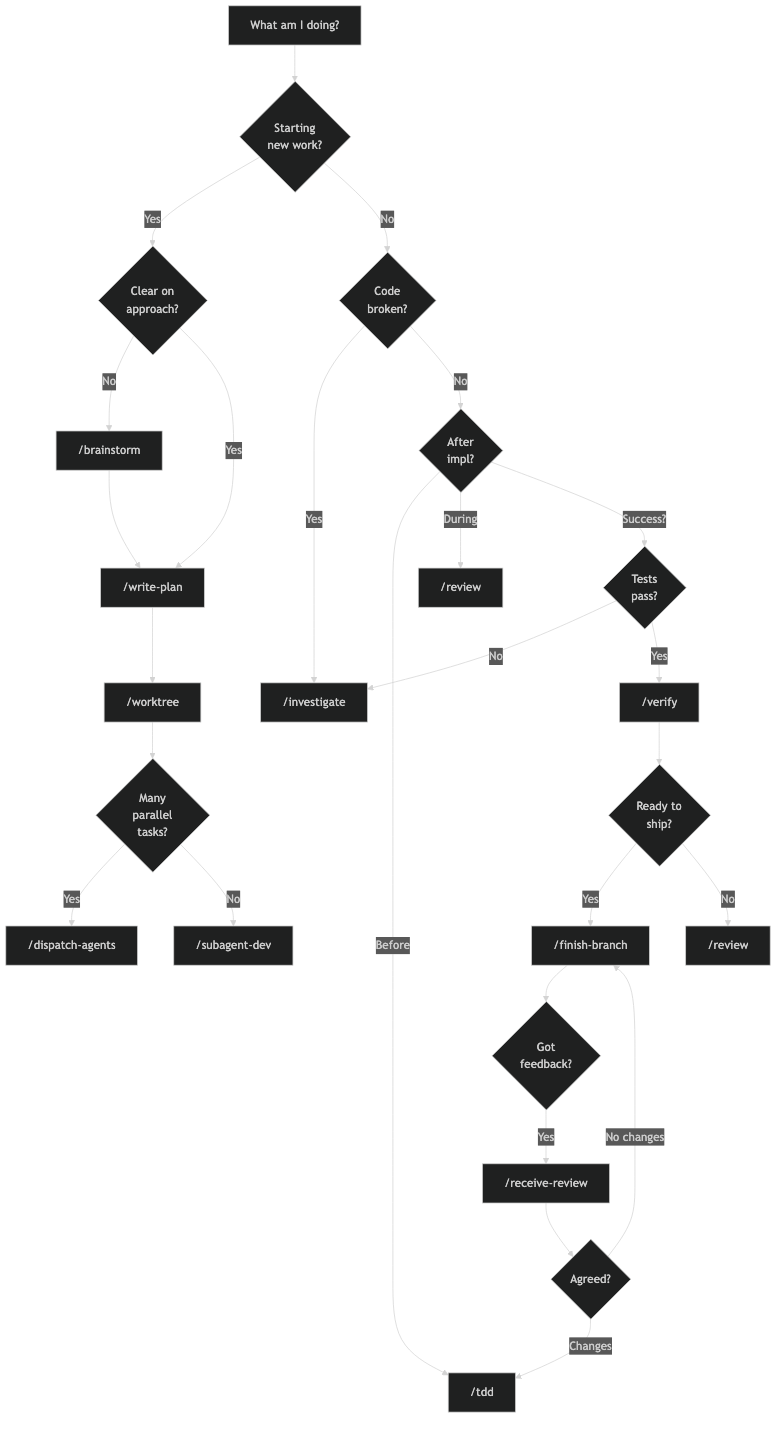
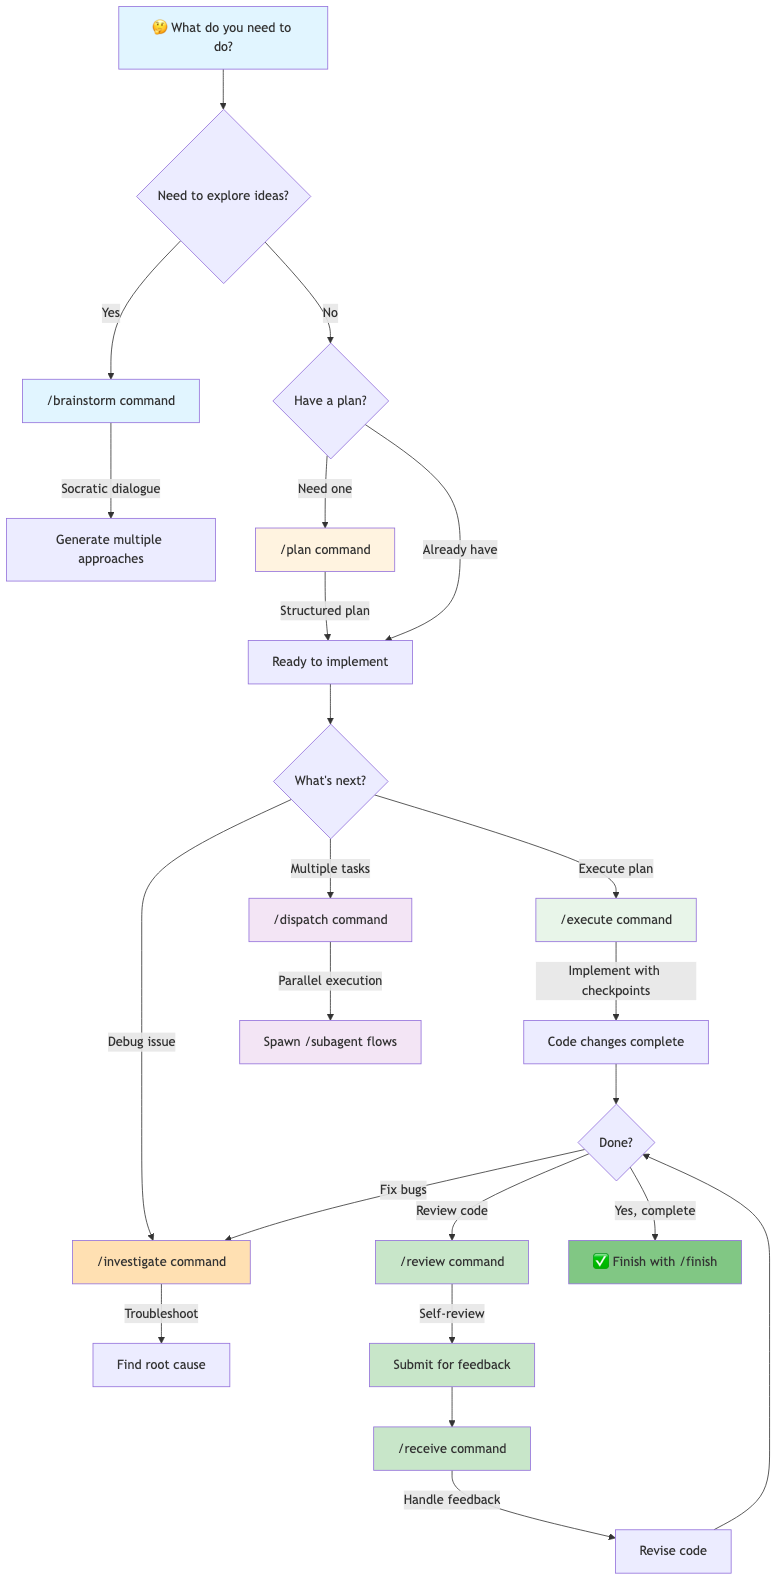
Regenerate Mermaid diagrams for Gemini slash commands
- Create docs/images/mermaid-source/ with 7 Mermaid diagram source files
- Each diagram updated to reference Gemini CLI commands (/plan, /execute, /investigate, /verify, /brainstorm, /tdd, /subagent, /dispatch, /review, /receive, /finish, /newskill)
- Generate PNG images from Mermaid sources using mmdc
- Update CHEATSHEET.md with complete Visual Workflows section
- Add all 7 diagram subsections with descriptions
- Verify all image references and relative paths are correct

diff --git a/docs/CHEATSHEET.md b/docs/CHEATSHEET.md
@@ -19,6 +19,52 @@ This cheatsheet provides a quick reference for all available Gemini Superpowers 
 - `/newskill`: Create a new Superpowers skill.
 - `/superpowers`: Learn about available Superpowers.
 
+## Visual Workflows
+
+These diagrams illustrate the core development workflows supported by Gemini Superpowers.
+
+### Core Development Workflow
+
+The fundamental flow: brainstorm ideas, create a plan, execute it, and verify the results.
+
+![Core Development Workflow](images/core-workflow.png)
+
+### Debugging & Troubleshooting Workflow
+
+Systematic approach to debugging: investigate issues, apply Test-Driven Development, and verify fixes.
+
+![Debugging & Troubleshooting Workflow](images/debugging-workflow.png)
+
+### Decision Tree
+
+Flowchart to help you choose the right slash command for your current task.
+
+![Decision Tree](images/decision-tree.png)
+
+### GitHub Issues Workflow
+
+Demonstrates how to handle feature requests and bug fixes: from GitHub issue to completed merge.
+
+![GitHub Issues Workflow](images/github-workflow.png)
+
+### Parallel Development Workflow
+
+Use `/dispatch` to spawn multiple `/subagent` workflows for independent tasks working in parallel.
+
+![Parallel Development Workflow](images/parallel-workflow.png)
+
+### Code Review & Refinement Workflow
+
+Self-review your code with `/review`, then handle feedback with `/receive`.
+
+![Code Review & Refinement Workflow](images/review-workflow.png)
+
+### Skill Creation & Documentation Workflow
+
+Create new Superpowers skills with `/newskill`, implement, document, test, and verify.
+
+![Skill Creation & Documentation Workflow](images/skill-creation-workflow.png)
+
 ## Usage Examples
 
 - To create a new plan: `/plan "Implement user authentication"`
